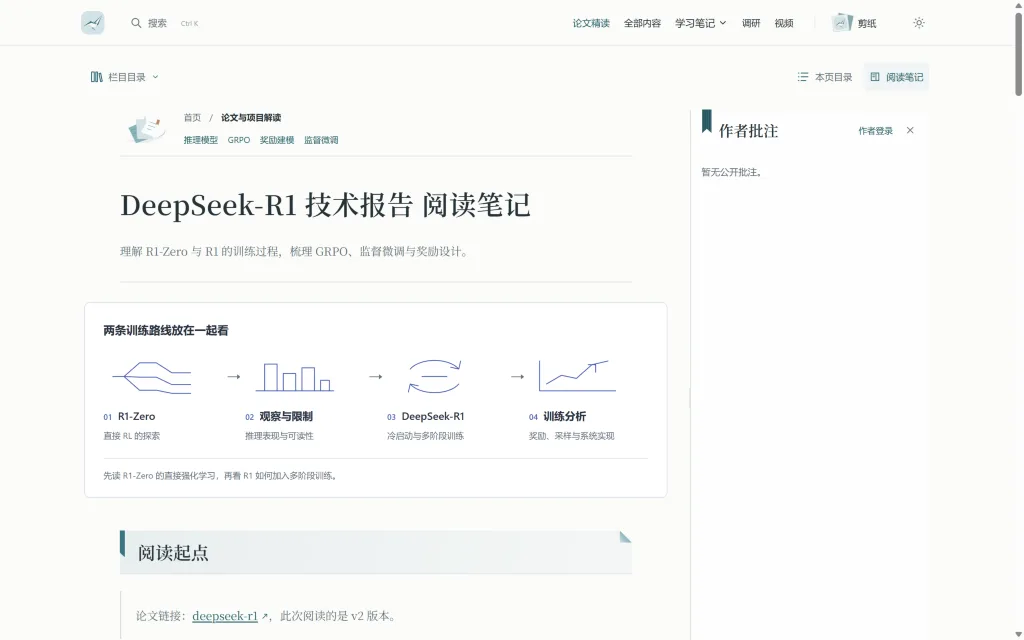
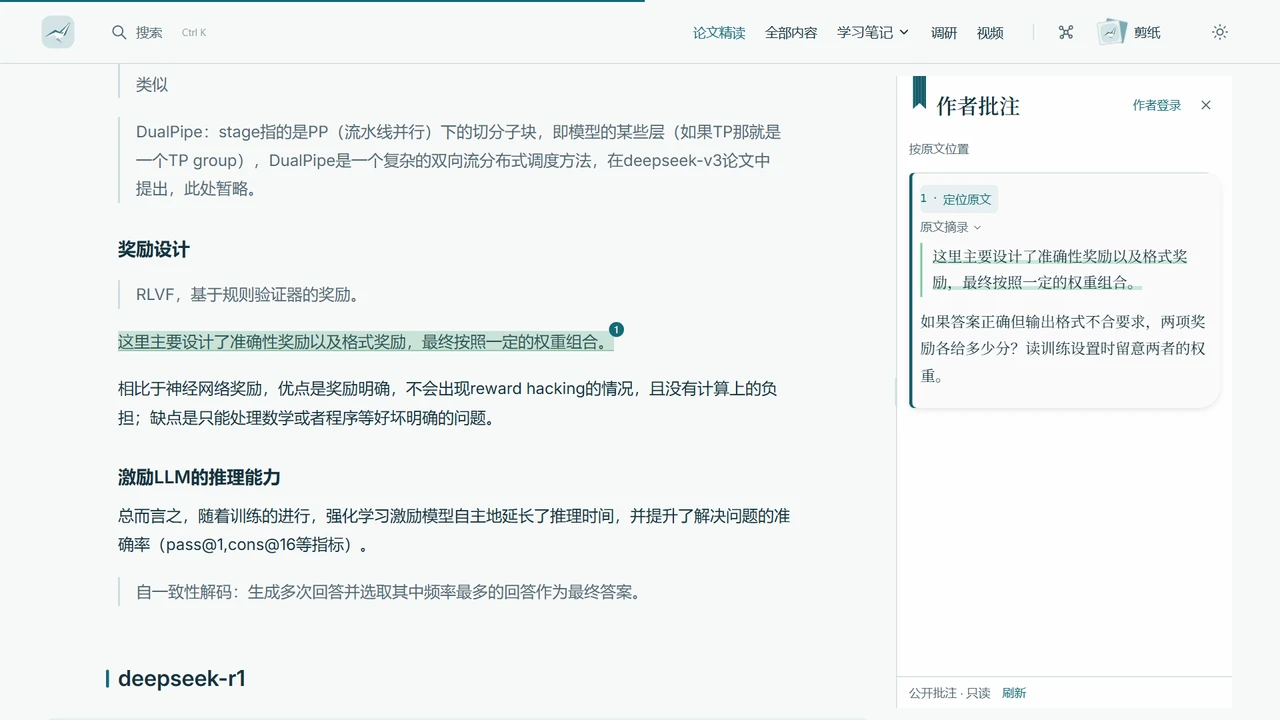
docs: 在 README 展示阅读路线、知识星图与批注示例

diff --git a/README.md b/README.md
@@ -13,107 +13,101 @@
 <p align="center">
   <strong><a href="https://seagull-llm.pages.dev/">进入网站</a></strong> ·
   <a href="https://seagull-llm.pages.dev/tags">按主题浏览</a> ·
-  <a href="https://seagull-llm.pages.dev/research/">阅读每日调研</a>
+  <a href="https://seagull-llm.pages.dev/research/#精选调研">精选调研</a>
 </p>
-
-## 网站-批注功能
-
-### 把批注放在原文右侧
-
-读网页文章或 PDF 时，我可以选中一句话，也可以在「框选」模式下拖框圈出图表、公式或幻灯片中的任意区域，写下当时的疑问（支持 Markdown 与 LaTeX 公式）。公开后，读者点原文里的标记就能展开批注，也能从批注卡片跳回对应段落或图表；无公开批注时面板默认收起，保持正文居中阅读。
-
-| 场景 | 定位与交互方式 |
-| --- | --- |
-| **网页文章（PC）** | 选中文本按上下文锚定，或开启工具栏「框选」直接圈选图表区域；右侧停靠面板与原文并排对照 |
-| **PDF 论文 / 幻灯片（PC）** | 内置 `pdf.js` 阅读器，按页码与归一化区域坐标定位，支持文字高亮、区域框选裁切与页面书签 |
-| **手机端阅读** | 底部固定批注抽屉，上方为原文与输入法键盘保留可视空间，对照阅读不遮挡当前行 |
-| **数据与同步** | Cloudflare Pages Functions 读写 D1 数据库；读者端公开只读，作者登录后自动离线排队同步 |
-
-<table>
-  <tr>
-    <td align="center" width="50%">
-      <img src="design/readme/notes-pc-html.webp" alt="PC 端网页文章与右侧批注面板并排对照" width="100%">
-      <br><sub><b>PC 端 · 网页正文批注</b>（右侧停靠面板，与原文同屏对照）</sub>
-    </td>
-    <td align="center" width="50%">
-      <img src="design/readme/notes-pc-pdf.webp" alt="PC 端 PDF 阅读器与右侧批注面板" width="100%">
-      <br><sub><b>PC 端 · PDF 论文与幻灯片批注</b>（支持页码跳转、缩放、目录与区域框选）</sub>
-    </td>
-  </tr>
-</table>
-
-<p align="center">
-  <img src="design/readme/notes-mobile.webp" alt="手机端文章页底部固定批注面板" width="280">
-  <br><sub><b>手机端 · 底部固定批注面板</b>（为原文与输入法保留阅读空间）</sub>
-</p>
-
-> 代码入口：[批注组件](docs/.vitepress/components/AnnotationNotebook.vue) · [PDF 阅读器](docs/.vitepress/components/PdfViewer.vue) · [存储与访问接口](server/notes-api.ts)
-
-## 四套视觉风格
-
-全站正文共用同一套学术阅读版式（本地 Noto Serif SC 宋体、720px 版心、等宽数字表格），点击顶栏的风格封面即可打开「换一片风景」手册，在四套主题间切换，昼夜模式独立保存。[视觉规范](VISUAL_STYLES.md)
-
-<table>
-  <tr>
-    <td align="center" width="50%">
-      <img src="design/readme/style-paper-coast.webp" alt="剪纸 Paper Coast 风格首页" width="100%">
-      <br><sub><b>剪纸 · Paper Coast</b> — 折纸分册地图、跨栏选读与月刊式每日调研</sub>
-    </td>
-    <td align="center" width="50%">
-      <img src="design/readme/style-pixel-voyage.webp" alt="雪山 Pixel Voyage 风格首页" width="100%">
-      <br><sub><b>雪山 · Pixel Voyage</b> — 钴蓝雪峰、像素栏目图标与卷尾太刀遭遇战</sub>
-    </td>
-  </tr>
-  <tr>
-    <td align="center" width="50%">
-      <img src="design/readme/style-along-the-way.webp" alt="灿烂人生 Along the Way 风格首页" width="100%">
-      <br><sub><b>灿烂人生 · Along the Way</b> — 保留电影原帧比例与胶片接触印相索引</sub>
-    </td>
-    <td align="center" width="50%">
-      <img src="design/readme/style-switcher.webp" alt="换一片风景风格选择手册" width="100%">
-      <br><sub><b>风格手册 · 换一片风景</b> — 四套封面实时预览，支持键盘方向键切换</sub>
-    </td>
-  </tr>
-  <tr>
-    <td align="center" width="50%">
-      <img src="design/readme/style-grace-day.webp" alt="艾尔登法环 Grace Archive 白天亚坛高原首页" width="100%">
-      <br><sub><b>艾尔登法环 · Grace Archive（昼）</b> — 亚坛高原晴昼与暗金栏目选单</sub>
-    </td>
-    <td align="center" width="50%">
-      <img src="design/readme/style-grace-night.webp" alt="艾尔登法环 Grace Archive 夜间艾雷月夜首页" width="100%">
-      <br><sub><b>艾尔登法环 · Grace Archive（夜）</b> — 艾雷教堂月夜、人物藏品格与每日调研</sub>
-    </td>
-  </tr>
-</table>
-
-## 自动调研与站点构建
-
-### 自动调研
-
-自动调研脚本从 arXiv、Hugging Face Papers、研究博客和开源项目的发布记录中收集新材料，按主题和时间窗口筛选、去重。Codex 根据资料生成带出处的初稿，我读过并反馈后再定稿。脚本可以把定稿加入「每日调研」目录，构建网站并检查发布后的页面。[订阅配置](research/workflow.json) · [调研流程](research/daily.md)
-
-### 存放笔记
-
-VitePress 将 Markdown 和 HTML 正文构建为静态页面，Vue 组件提供 PDF 阅读器和批注面板。想沿着一门课读，可以跟随栏目侧栏；想找同一主题下的课程笔记、论文和调研，可以从标签页进入。网站部署在 Cloudflare Pages。[站点配置](docs/.vitepress/config.mts) · [阅读组件](docs/.vitepress/components/)
 
 ## 从哪里开始读
 
-| 感兴趣的方向 | 阅读入口 |
+| 想弄清的问题 | 可以从这里开始 |
 | --- | --- |
-| 从零实现大模型，跟着讲义做作业和 GPU 实验 | [Stanford CS336 学习笔记](https://seagull-llm.pages.dev/cs336/) |
-| 学习强化学习的数学推导、奖励建模与训练实践 | [西湖强化学习](https://seagull-llm.pages.dev/westlake-rl/) · [强化学习笔记](https://seagull-llm.pages.dev/rl-book/) |
-| 对照 R1-Zero 和 R1 的训练过程，读懂奖励设计 | [DeepSeek-R1 阅读笔记](https://seagull-llm.pages.dev/papers/deepseek-r1/) · [更多论文与项目](https://seagull-llm.pages.dev/papers/) |
-| 拆解 0.5B–3B 小模型预训练的数据配方、架构与蒸馏取舍 | [0.5B–3B 小模型预训练调研](https://seagull-llm.pages.dev/research/2026-11-27-slm-pretraining-2026) |
-| 从代码理解并发，从操作系统理解隔离 | [Rust 笔记](https://seagull-llm.pages.dev/rust-notes/) · [Linux 笔记](https://seagull-llm.pages.dev/linux-notes/) |
+| 怎样从头实现一个 Transformer，再测出它在 GPU 上跑一步需要多久？ | [CS336 · 从 RoPE 到 Transformer 块](https://seagull-llm.pages.dev/cs336/a1-transformer) · [GPU 计时与预热实验](https://seagull-llm.pages.dev/cs336/a2-benchmark) |
+| 奖励怎样影响策略更新？DeepSeek-R1 又怎样为推理任务设计奖励？ | [西湖强化学习讲义](https://seagull-llm.pages.dev/westlake-rl/) · [DeepSeek-R1 技术报告阅读笔记](https://seagull-llm.pages.dev/papers/deepseek-r1/) |
+| GPU 内核怎样访问显存？推理引擎怎样算出能放多少 KV Cache？ | [CUDA · SIMT 内核与合并访存](https://seagull-llm.pages.dev/cuda-notes/simt-kernels) · [vLLM · KV Cache 配置源码](https://seagull-llm.pages.dev/vllm-notes/kv-cache-config) |
+
+## 沿着知识星图找文章
+
+打开网站顶栏的「星图」，按 `/` 搜索「奖励」，选中《奖励、优势与策略更新》。亮起的连线通向这篇文章所属的栏目和主题。点「前往阅读」打开正文，或选中相邻的主题，继续找同一问题下的其他笔记。
+
+[![知识星图中选中《奖励、优势与策略更新》，连线标出关联节点，底部卡片提供阅读入口](design/readme/knowledge-atlas.webp)](https://seagull-llm.pages.dev/tags?view=graph)
+
+知道关键词时，顶栏搜索可以直接查正文。想缩小阅读范围，可以在主题索引里叠加栏目、内容类型和「幼苗／成长／常青」成熟度筛选。[打开图谱](https://seagull-llm.pages.dev/tags?view=graph) · [浏览「强化学习」主题](https://seagull-llm.pages.dev/tags#强化学习)
+
+## 精选调研 · 0.5B–3B 小模型预训练
+
+SmolLM2 在训练的哪个阶段增加数学语料？这样做对推理成绩有什么影响？下图取自文章的数据配方一节。左图追踪四个阶段的语料配比，右图比较退火时换用不同数学语料的结果。顺着正文往下读，可以对照各阶段的评测表，再回到论文原图核查。
+
+[![SmolLM2 的四阶段数据配比与数学语料退火实验，保留原论文图号和读图说明](design/readme/research-smollm2.webp)](https://seagull-llm.pages.dev/research/2026-11-27-slm-pretraining-2026#h-data)
+
+[从「数据配方」一节开始读](https://seagull-llm.pages.dev/research/2026-11-27-slm-pretraining-2026#h-data) · [进入每日调研，可切换「仅看精选」](https://seagull-llm.pages.dev/research/)
+
+## 对着原文读批注
+
+我读网页时可以选中一句话、选高亮颜色，或用 Markdown 和 LaTeX 写批注。读 PDF 时也可以框住一张图，把问题留在对应页。批注公开后，读者点原文标记就能展开，也能从卡片回到当时选中的句子或图表。
+
+<table>
+  <tr>
+    <td width="50%" valign="top">
+      <img src="design/readme/notes-pc-html.webp" width="100%" alt="DeepSeek-R1 笔记中有关奖励设计的高亮句子与右侧对应的批注卡片">
+      <br><sub><b>网页选句</b> · 把对准确性奖励和格式奖励权重的疑问留在原句旁。</sub>
+    </td>
+    <td width="50%" valign="top">
+      <img src="design/readme/notes-pc-pdf.webp" width="100%" alt="后训练讲义第 2 页中被框选的图表及对应的区域批注">
+      <br><sub><b>PDF 框选</b> · 点批注里的页码，回到区分训练算力与测试算力的两幅图。</sub>
+    </td>
+  </tr>
+</table>
+
+上面两条批注是本地操作示例。文中带 TeX 源码的公式也可以直接复用，指向公式后点「TeX」即可复制，点「$…$」会连同定界符一起复制。[打开 RoPE 推导](https://seagull-llm.pages.dev/cs336/a1-transformer#derive) · [翻到讲义第 2 页](https://seagull-llm.pages.dev/papers/lambert-cornell-2026/#page=2)
+
+<details>
+<summary>查看选色、公式复制和手机批注面板</summary>
+
+<p><b>网页高亮</b><br>
+<img src="design/readme/read-highlight.webp" width="350" alt="原句处的选文工具栏，展开后可选预设高亮色或输入自定义色值"></p>
+
+<p><b>复制公式</b><br>
+<img src="design/readme/read-formula.webp" width="720" alt="RoPE 相对位置公式旁的 TeX 源码复制按钮和定界符按钮"></p>
+
+<p><b>手机阅读</b> · 批注在底部抽屉中展开，上方保留原文。<br>
+<img src="design/readme/notes-mobile.webp" width="260" alt="手机竖屏上的原文与底部批注抽屉"></p>
+
+</details>
+
+## 四套视觉风格
+
+点顶栏的风格封面打开「换一片风景」，可以切换首页和阅读界面的风格。昼夜模式可单独设置。[视觉规范](VISUAL_STYLES.md)
+
+<table>
+  <tr>
+    <td width="50%"><img src="design/readme/style-paper-coast.webp" width="100%" alt="剪纸风格首页，海鸥下方排列折纸分册"><br><sub><b>剪纸 · Paper Coast</b>　折纸分册与海岸</sub></td>
+    <td width="50%"><img src="design/readme/style-pixel-voyage.webp" width="100%" alt="雪山风格首页，钴蓝天空和像素山脊"><br><sub><b>雪山 · Pixel Voyage</b>　像素雪峰与栏目地图</sub></td>
+  </tr>
+  <tr>
+    <td width="50%"><img src="design/readme/style-along-the-way.webp" width="100%" alt="灿烂人生风格首页，电影剧照嵌在胶片框内"><br><sub><b>灿烂人生 · Along the Way</b>　电影原帧与胶片索引</sub></td>
+    <td width="50%"><img src="design/readme/style-grace-day.webp" width="100%" alt="艾尔登法环风格首页，亚坛高原上的暗金色栏目选单"><br><sub><b>艾尔登法环 · Grace Archive</b>　亚坛高原与暗金选单</sub></td>
+  </tr>
+</table>
+
+## 本地运行与实现
+
+<details>
+<summary>运行网站、查阅代码与调研流程</summary>
+
+在仓库根目录运行以下命令，然后打开终端显示的本地地址。本次构建使用 Node.js 22.23.3。
+
+```sh
+npm ci
+npm run dev
+```
+
+用 `npm run build` 生成静态站点，`npm run preview` 预览构建结果。VitePress 将 Markdown 和 HTML 构建为页面，Vue 组件负责星图、PDF 阅读和批注。线上批注通过 Cloudflare Pages Functions 与 D1 存取，本地静态预览可用于浏览正文和星图。[站点配置](docs/.vitepress/config.mts) · [知识星图](docs/.vitepress/components/KnowledgeAtlas.vue) · [PDF 阅读器](docs/.vitepress/components/PdfViewer.vue) · [批注接口](server/notes-api.ts)
+
+调研时，Hermes 传递原始问题并调度，Codex 核对原文并留下带出处的笔记，Antigravity 据此编排图表和 HTML 初稿。我审阅、反馈后决定发布。[协作约定](hermes/README.md) · [调研流程](research/daily.md)
+
+</details>
 
 ## 许可协议
 
-**原创代码**采用 MIT 许可，涵盖本站自行编写的主题、阅读组件、服务端接口、构建脚本及配套技术文档。你可以修改、分发或商用这些代码，分发副本或实质性部分时须保留版权与许可声明。[MIT 全文](LICENSE)
-
-**原创文章**采用知识共享署名 4.0 国际许可（CC BY 4.0），包括作者撰写的学习笔记、论文解读和调研文章。欢迎转载、翻译、改编和商用。复用时请注明作者、链接原文及许可，并标明所作修改。[协议全文](licenses/CC-BY-4.0.txt) · [官方中文说明](https://creativecommons.org/licenses/by/4.0/deed.zh-hans)
-
-节选文章时，可以这样署名。
-
-> 本文节选自 Seagull 的《[0.5B–3B 小模型预训练](https://seagull-llm.pages.dev/research/2026-11-27-slm-pretraining-2026)》，按 [CC BY 4.0](https://creativecommons.org/licenses/by/4.0/) 使用，部分段落已删节。
-
-**第三方材料**按各自的授权使用，包括收录或翻译的论文与课件、引用图表、影视和游戏画面、字体及第三方代码。请查阅相应文件、图注或原始来源中的声明。[CS336 作业一许可](docs/public/cs336/sources/assignment1/LICENSE) · [作业二许可](docs/public/cs336/sources/assignment2/LICENSE) · [Noto Serif SC 字体许可](docs/.vitepress/theme/fonts/OFL-NotoSerifSC.txt)
+- **原创代码**采用 MIT 许可。分发代码副本或实质性部分时须保留版权与许可声明。[MIT 全文](LICENSE)
+- **原创文章**采用 CC BY 4.0。转载、翻译或改编时请注明作者、原文链接和许可，并标明改动。[协议全文](licenses/CC-BY-4.0.txt) · [官方中文说明](https://creativecommons.org/licenses/by/4.0/deed.zh-hans)
+- **第三方材料**按各自的授权使用，包括论文、课件、引用图表、影视与游戏画面、字体和第三方代码。请查阅文件、图注或原始来源中的声明。[CS336 作业一许可](docs/public/cs336/sources/assignment1/LICENSE) · [作业二许可](docs/public/cs336/sources/assignment2/LICENSE) · [Noto Serif SC 字体许可](docs/.vitepress/theme/fonts/OFL-NotoSerifSC.txt)
